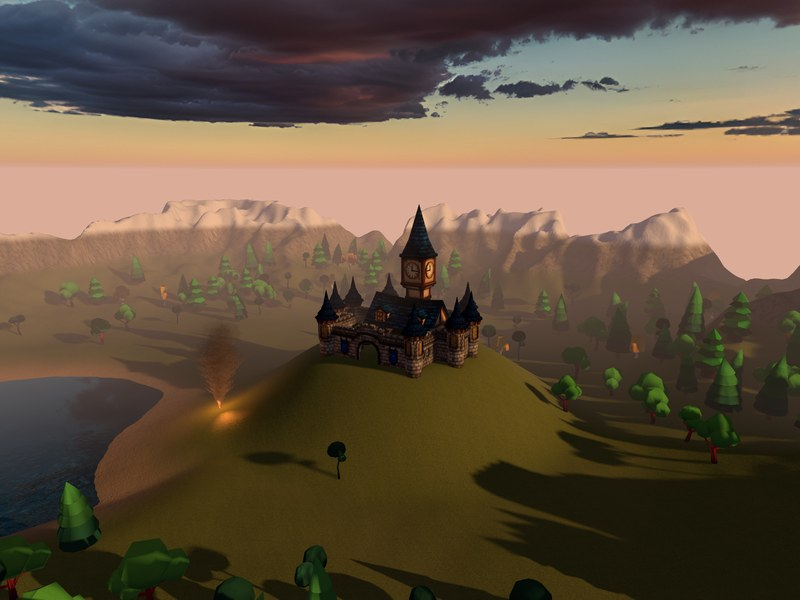
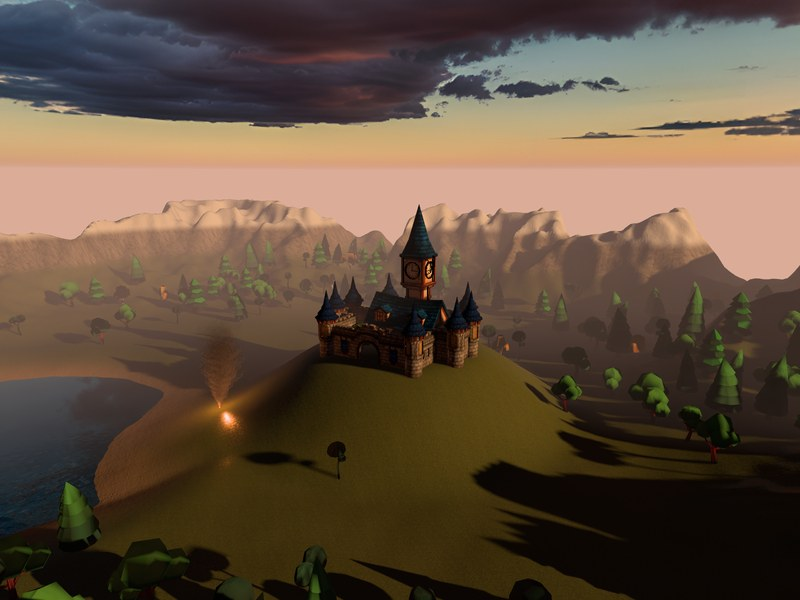
PBR: examples and docs
The reflection and transparency examples have a sun: their sky is dark space and used to be lit by the flat ambient
light only. The screenshots of the castle and of the shadows are new, the first roadmap item is done.

diff --git a/examples/src/main/java/io/github/trimax/examples/reflection/handlers/ReflectionApplicationStartupHandler.java b/examples/src/main/java/io/github/trimax/examples/reflection/handlers/ReflectionApplicationStartupHandler.java
@@ -3,6 +3,7 @@ package io.github.trimax.examples.reflection.handlers;
 import io.github.trimax.examples.reflection.state.ReflectionApplicationState;
 import io.github.trimax.venta.engine.context.VentaContext;
 import io.github.trimax.venta.engine.interfaces.VentaEngineStartupHandler;
+import io.github.trimax.venta.engine.model.common.shared.DirectionalLight;
 import lombok.AllArgsConstructor;
 import lombok.extern.slf4j.Slf4j;
 import org.joml.Vector3f;
@@ -18,6 +19,7 @@ public final class ReflectionApplicationStartupHandler implements VentaEngineSta
         final var scene = context.getSceneManager().getCurrent();
         scene.setAmbientLight(new Vector3f(0.6f, 0.6f, 0.6f));
         scene.setSkybox(context.getCubemapRegistry().get("stars.json"));
+        scene.setDirectionalLight(new DirectionalLight(new Vector3f(1.f, 0.95f, 0.9f), new Vector3f(-0.5f, -0.8f, -0.6f), 1.5f));
 
         final var cubeMirror = context.getObjectManager().create("Cube like mirror", context.getObjectRepository().get("cube.json"));
         cubeMirror.setMaterial(context.getMaterialRegistry().get("mirror.json"));

diff --git a/examples/src/main/java/io/github/trimax/examples/transparency/handlers/TransparencyApplicationStartupHandler.java b/examples/src/main/java/io/github/trimax/examples/transparency/handlers/TransparencyApplicationStartupHandler.java
@@ -2,6 +2,7 @@ package io.github.trimax.examples.transparency.handlers;
 
 import io.github.trimax.venta.engine.context.VentaContext;
 import io.github.trimax.venta.engine.interfaces.VentaEngineStartupHandler;
+import io.github.trimax.venta.engine.model.common.shared.DirectionalLight;
 import lombok.AllArgsConstructor;
 import org.joml.Vector3f;
 
@@ -12,6 +13,7 @@ public final class TransparencyApplicationStartupHandler implements VentaEngineS
         final var scene = context.getSceneManager().getCurrent();
         scene.setSkybox(context.getCubemapRegistry().get("stars.json"));
         scene.setAmbientLight(new Vector3f(0.8f, 0.8f, 0.8f));
+        scene.setDirectionalLight(new DirectionalLight(new Vector3f(1.f, 1.f, 1.f), new Vector3f(-0.3f, -1.f, -0.2f), 1.f));
 
         final var plane = context.getObjectManager().create("plane", context.getObjectRepository().get("plane.json"));
         plane.setMaterial(context.getMaterialRegistry().get("hole.json"));

diff --git a/ROADMAP.md b/ROADMAP.md
@@ -4,53 +4,51 @@ All the known issues found during the code review of 1.2.61 are fixed. The plann
 order they will be done: every step builds on the previous ones and makes a visible difference on its own.
 The scene is rendered in HDR and tone mapped, so the post effects below render into its framebuffer, and the sun
 casts cascaded shadows (point lights don't cast shadows yet: cubemap depth maps are the next step for them).
+Surfaces are shaded physically (a Cook-Torrance BRDF) and lit by their skybox (image based lighting); the skybox
+is 8 bit, so a loader of HDR environment maps (`.hdr`, `.exr`) would give the sun and the bright sky their real brightness.
 Paths are relative to `engine/src/main/resources/shaders/` unless stated otherwise.
 
 ## Rendering
 
-- [ ] **1. Physically based lighting.** The shaders use Blinn-Phong like lighting, so materials look like plastic.
-  A Cook-Torrance BRDF (GGX distribution, Smith geometry, Schlick fresnel) driven by the metalness and roughness of
-  the materials, and image based lighting from the skybox (a diffuse irradiance cubemap and a specular cubemap
-  prefiltered by roughness with a BRDF lookup table) give the objects the color of the sky around them.
-- [ ] **2. Alpha cutout.** Materials can't cut holes by the texture alpha: `default/fragment.glsl` never discards
+- [ ] **1. Alpha cutout.** Materials can't cut holes by the texture alpha: `default/fragment.glsl` never discards
   fragments, and a semi-transparent texture is only alpha blended without sorting. Leaves, grass, fences and other
   foliage need an alpha threshold in the material (fragments below it are discarded, the rest are opaque and write
   depth) and double-sided faces for thin geometry like leaf cards.
-- [ ] **3. Instancing and foliage.** Every object is a separate draw call, so a few hundred trees already cost a lot.
+- [ ] **2. Instancing and foliage.** Every object is a separate draw call, so a few hundred trees already cost a lot.
   Objects sharing a mesh and a material should be drawn with instanced rendering (a buffer of model matrices), which
   makes forests and grass possible; foliage also needs a wind sway in the vertex shader.
-- [ ] **4. Levels of detail.** A far object costs as much as a close one. Objects should have several meshes
+- [ ] **3. Levels of detail.** A far object costs as much as a close one. Objects should have several meshes
   (simpler with the distance, the last one can be a billboard with a picture of the object) and switch between them
   by the distance or the screen size, with a short crossfade (dithered) so the switch doesn't pop; terrain far away
   can use coarser grid cells as well.
-- [ ] **5. Ambient occlusion.** Contact shadows in corners, under walls and around the roots of trees are missing, so
+- [ ] **4. Ambient occlusion.** Contact shadows in corners, under walls and around the roots of trees are missing, so
   objects look like floating on the ground. Screen space ambient occlusion (from the depth and the normals of the
   scene, blurred) darkens the ambient and the image based lighting there.
-- [ ] **6. Atmosphere.** The fog is a layer with a sharp top, and bright light has no glow. An exponential height fog
+- [ ] **5. Atmosphere.** The fog is a layer with a sharp top, and bright light has no glow. An exponential height fog
   (the density decreases with the height, integrated along the view ray) with the sun color scattered towards the
   sun, light shafts (god rays) and bloom (bright parts of the HDR image blurred and added back) give the hazy,
   glowing look of sunsets and forests.
-- [ ] **7. Terrain materials.** Terrain materials are picked by the height only, so rock never appears on steep
+- [ ] **6. Terrain materials.** Terrain materials are picked by the height only, so rock never appears on steep
   slopes and textures stretch on cliffs. Materials should be blended by the height and the slope, sampled
   triplanarly on steep parts, with a detail normal map close to the camera.
-- [ ] **8. Water and environment reflections.** Water (`water/fragment.glsl`) and reflective materials
+- [ ] **7. Water and environment reflections.** Water (`water/fragment.glsl`) and reflective materials
   (`default/fragment.glsl`) reflect only the skybox cubemap, so objects, terrain and other surfaces never appear in
   reflections. Planar reflections for water (the scene rendered mirrored around the water plane into a texture) and
   optionally a dynamic cubemap for reflective objects would fix it; with the depth of the scene the water also gets
   its color by the depth, a foam line along the shore and refraction.
-- [ ] **9. Antialiasing of the post effects.** Multisampling smooths the geometry edges only; with the post effects
+- [ ] **8. Antialiasing of the post effects.** Multisampling smooths the geometry edges only; with the post effects
   and alpha cutout foliage the image needs FXAA or temporal antialiasing (TAA, which needs motion vectors).
 
 ## Animation
 
-- [ ] **10. Animation.** Objects move only from code: there are no animations in the resources. Keyframe
+- [ ] **9. Animation.** Objects move only from code: there are no animations in the resources. Keyframe
   animation of the transforms of the hierarchy nodes (position, rotation, scale with interpolation) is the first
   step; skeletal animation (skinned meshes with joints and weights, played and blended in the vertex shader) needs a
   format with skeletons, so it comes with a glTF loader, which also brings PBR materials and scenes in one file.
 
 ## Editor
 
-- [ ] **11. Editor redesign.** The editor (`editor/`) uses the default light Modena look with a couple of tiny style
+- [ ] **10. Editor redesign.** The editor (`editor/`) uses the default light Modena look with a couple of tiny style
   sheets and PNG icons, and its center is a placeholder: `layouts/main.fxml` has a black `VBox` instead of a scene
   view, the editor never starts the engine and the camera buttons of the toolbar have no actions. It should be
   rebuilt like the map editor of The Native Land: a dark theme in one style sheet (a palette of looked-up colors,

diff --git a/readme.md b/readme.md
@@ -33,8 +33,9 @@ More screenshots can be produced by running the [examples](#examples).
 * **Scenes** — scenes described in JSON or built in code, switching between scenes, ambient and directional light, fog, skybox
 * **Objects** — meshes from JSON and Wavefront OBJ files, hierarchical objects (a model made of nodes with their own transformations); an OBJ model without a material of its own is split into its groups with the materials of its MTL file
 * **Materials** — color, tiling, offset, metalness and roughness, and diffuse, normal, height (parallax), roughness,
-  metalness and ambient occlusion maps
+  metalness and ambient occlusion maps; surfaces are shaded physically (Cook-Torrance with GGX, Smith and Schlick)
 * **Lights** — up to 64 point lights per scene with color, intensity and attenuation
+* **Image based lighting** — the skybox of a scene is convolved on the GPU once (diffuse irradiance, specular prefiltered by roughness, BRDF table), so objects and terrain take the color of the sky around them and metals reflect it; `ambientLight` of a scene multiplies the light of the sky, and a scene without a skybox has a flat ambient light
 * **Shadows** — the sun casts cascaded shadow maps (4 cascades, 2048×2048, soft edges) on objects, terrain and water: `"castShadows": true` and `"shadowDistance"` in the `directionalLight` of the scene file; off by default
 * **Terrain** — grid mesh displaced by a heightmap, materials blended by elevation
 * **Water** — grid mesh animated by Gerstner waves and noise, reflections of the skybox
